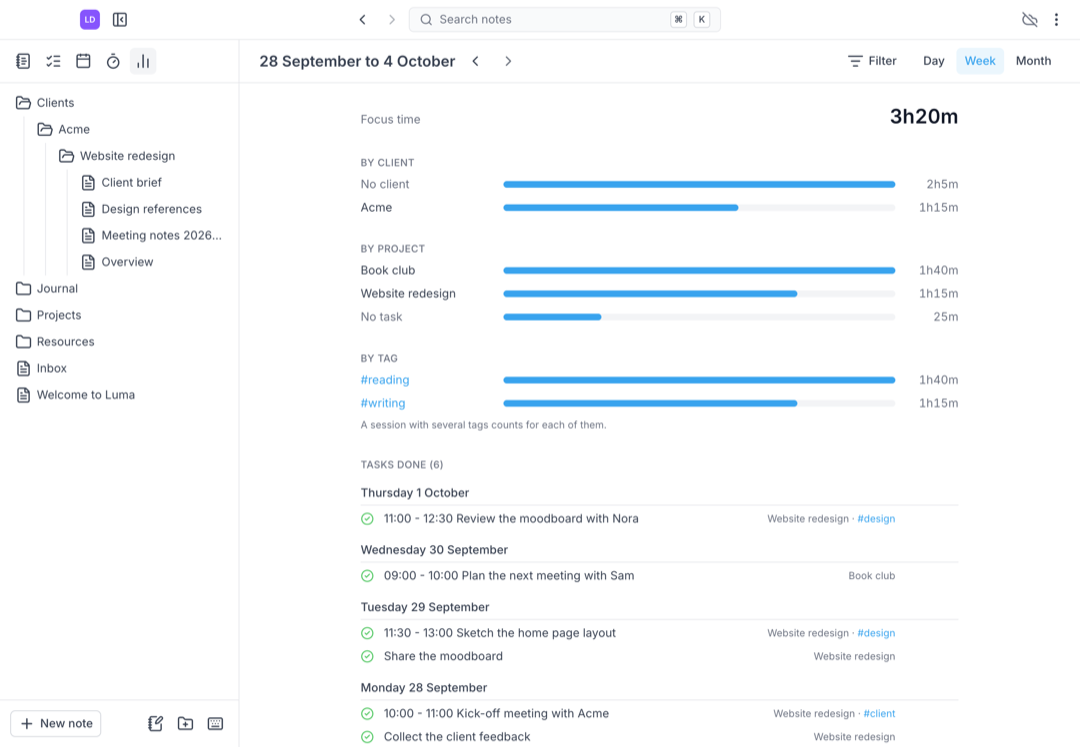
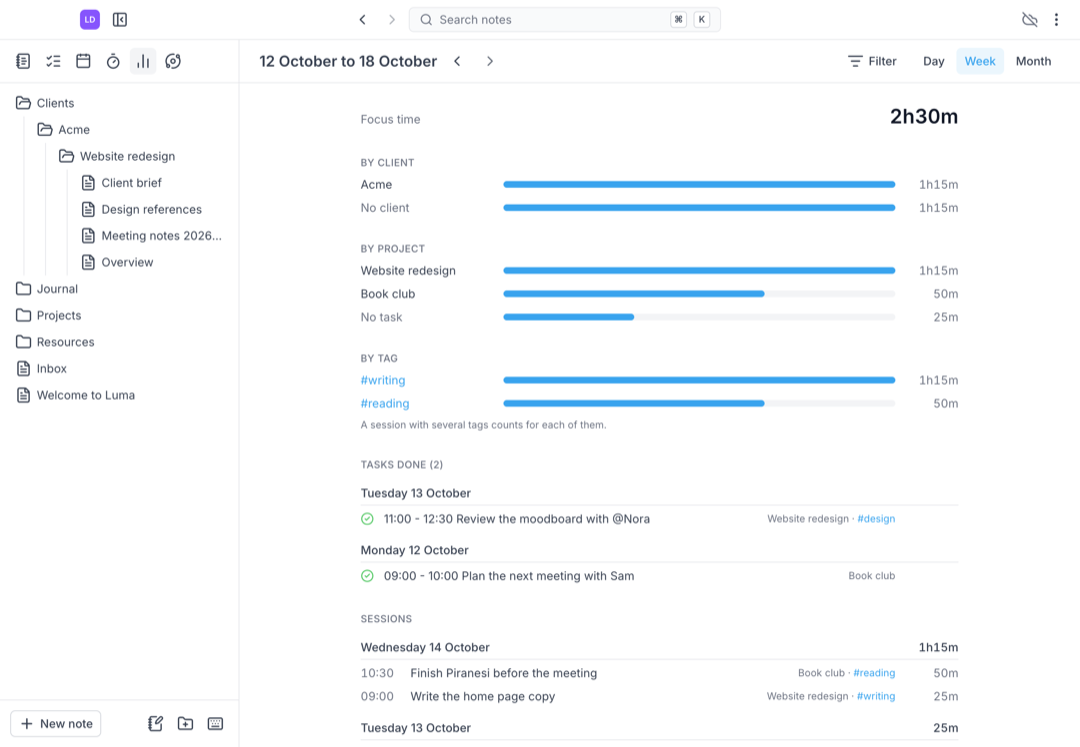
docs: describe 0.8.0 with new screenshots

diff --git a/README.md b/README.md
@@ -9,7 +9,7 @@ This repository only hosts the releases. The source code is not public.
 
 <picture>
   <source media="(prefers-color-scheme: dark)" srcset="screenshots/notes-dark.png" />
-  <img src="screenshots/notes.png" alt="A client project note in Luma, with links, tasks, hours, tags, priorities, due dates and time spent" />
+  <img src="screenshots/notes.png" alt="A client project note in Luma, with its properties, links, a sorted task list with hours, tags, a mention, priorities, due dates and time spent" />
 </picture>
 
 ## Download
@@ -29,13 +29,36 @@ with backlinks. A handle next to each line moves it elsewhere in the note. A but
 `⌘⇧M`) switches a note to its Markdown source, saved exactly as typed. The files stay
 readable in any other editor, and an existing Obsidian vault can be opened as is.
 
+The properties of a note (its YAML frontmatter) show under its title: click one to edit it,
+or add one as `key: value`. `#tags` written anywhere in a note, or in its `tags` property,
+and `@mentions` of people are colored, suggested as you type them, and lead to their notes:
+type `#` or `@` in the search, or `⌘`-click one.
+
+### Galaxy
+
+The Galaxy view draws every note of the vault, grouped by client, project and folder, with
+the `[[links]]` between them. Hover a note to light its links and their direction, click it
+for its panel (with its properties), double-click it to open it. From a note, Show in the
+galaxy flies to it.
+
+<picture>
+  <source media="(prefers-color-scheme: dark)" srcset="screenshots/galaxy-dark.png" />
+  <img src="screenshots/galaxy.png" alt="The Galaxy view, with the notes grouped by client, project and folder, and the links between them" />
+</picture>
+
 ### Projects and tasks
 
 A project is a folder, and a task is a Markdown checkbox line in any note, with an optional
 priority, due date and hours ([Obsidian Tasks](https://publish.obsidian.md/tasks/) format).
 Tasks can repeat (every day, week, month or year): checking one adds the next occurrence.
 The task view gathers the tasks of the whole vault: overdue, today, later and undated.
-Tasks can carry `#tags`, shown in color and used to filter the views.
+Tasks can carry `#tags`, shown in color and used to filter the views, and renamed or merged
+from the settings.
+
+In a note, Sort tasks (in the `/` menu, or `⌘⌥S`) puts the open tasks of a list first, by
+due date, hours and priority, then the done ones; subtasks move with their task. Turn on
+Sort tasks automatically in the note menu, and the lists of that note stay sorted each time
+you check a task or change its date.
 
 Projects can be grouped by client (`Clients/<client>/<project>/`), with a client filter and
 the focus time per client. A note, a project or a client can be archived from the tree: it
@@ -82,16 +105,25 @@ note at the task.
 
 ### Search and shortcuts
 
-`⌘K` searches the names and the contents of the notes, and runs actions such as a new
-task or a new project. Keyboard shortcuts cover the frequent actions.
+`⌘K` searches the names and the contents of the notes, lists the notes of a `#tag` or of an
+`@person`, and runs actions such as a new task or a new project. Keyboard shortcuts cover
+the frequent actions.
 
 ### GitHub sync
 
 The vault can be synchronized both ways with a GitHub repository, through the Git of your
-Mac. Each sync commit lists the files it changed. Conflicts never lose anything: both
+Mac. Each sync commit lists the files it changed, and is signed Luma: the syncs do not fill
+your GitHub contribution graph. Conflicts never lose anything: both
 versions are kept. Quitting Luma with changes not on GitHub yet offers to sync them first.
 It requires Git and a GitHub authentication already set up on your Mac (SSH key or
 `gh auth login`).
+
+### Assistant
+
+Ask questions about your notes and tasks to a local model run by
+[Ollama](https://ollama.com) on your Mac: Luma chooses the notes and computes the tasks
+(late, today, upcoming) it gives the model, and shows the notes used under each answer.
+Off by default (Settings > Assistant). Nothing leaves your computer.
 
 ### Several vaults
 
@@ -111,13 +143,14 @@ Luma is young, and some things are not there (yet):
   side by side, and only the open vault is synchronized.
 - **Calendar**: tasks only, no events, no Google, Outlook or iCloud calendars, no daily
   note templates. Future occurrences of recurring tasks are not shown.
-- **Tasks**: repeats of a plain interval only, no start or scheduled dates, no Kanban view,
-  and no list of the tags of the vault.
+- **Tasks**: repeats of a plain interval only, no start or scheduled dates, no Kanban view.
+- **Tags and people**: the tags written in the notes and the people mentioned cannot be
+  renamed from Luma yet (the tags of tasks can).
 - **Focus**: 15, 25 or 50 minutes or no end, no long breaks, a single end chime. Sessions
   cannot be edited or entered by hand, and the history has no charts or export. The time
   spent before version 0.2.0 is not in the history.
 - **Links**: embedded notes (`![[note]]`) and block links are kept in the file but not
-  displayed. Standard Markdown links to notes are not followed. No graph view.
+  displayed. Standard Markdown links to notes are not followed.
 - **Renaming outside Luma**: renaming or moving notes in Finder or through Git does not
   update the `[[links]]` pointing to them. Rename and move notes in Luma.
 - **GitHub sync**: Git must be installed on your Mac, and only GitHub repositories can be
